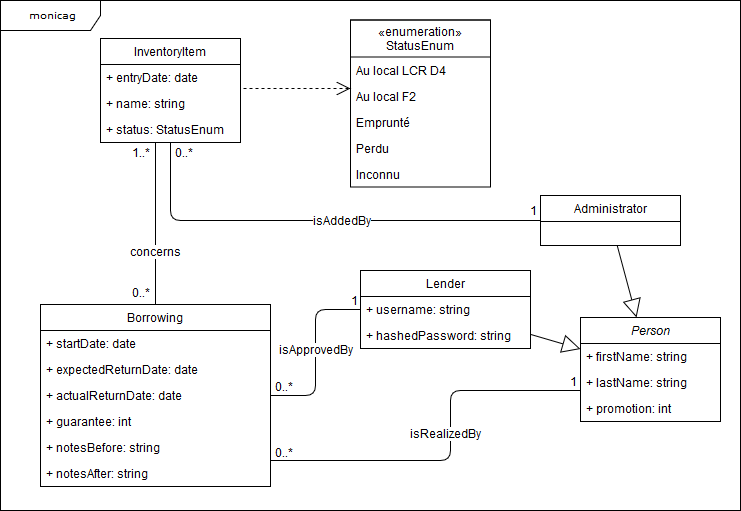
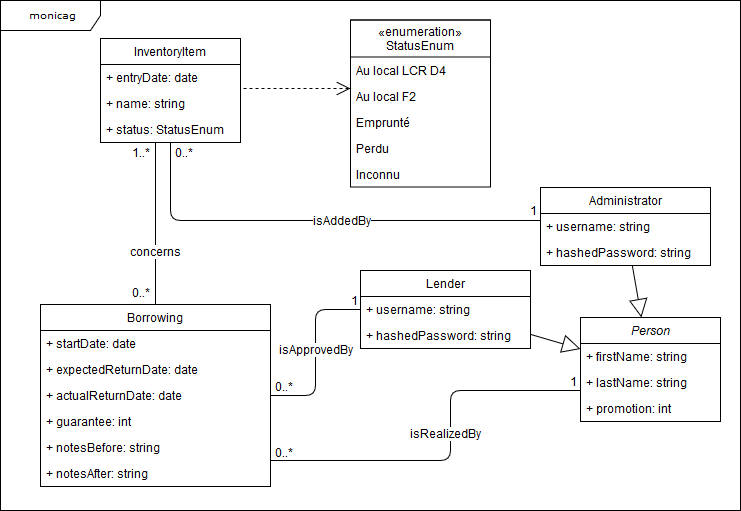
Fix UML diagram (v0.3.2)

Changed region(s): [[0.7139, 0.3816, 0.9622, 0.6164]]

diff --git a/changelog.md b/changelog.md
@@ -5,6 +5,13 @@ All notable changes to this project will be documented in this file.
 The format is based on [Keep a Changelog](http://keepachangelog.com/en/1.0.0/)
 and this project adheres to [Semantic Versioning](http://semver.org/spec/v2.0.0.html).
 
+## [0.3.2] - 2018-09-04
+
+### Fixed
+
+* Documentation
+  * ```UML``` diagram.
+
 ## [0.3.1] - 2018-09-04
 
 ### Changed

diff --git a/readme.md b/readme.md
@@ -12,7 +12,7 @@
 
 Just MoniCAG.
 
-**Version :** *MoniCAG v0.3.1* - [Changelog](./changelog.md)
+**Version :** *MoniCAG v0.3.2* - [Changelog](./changelog.md)
 
 **Work in progress :**
 
